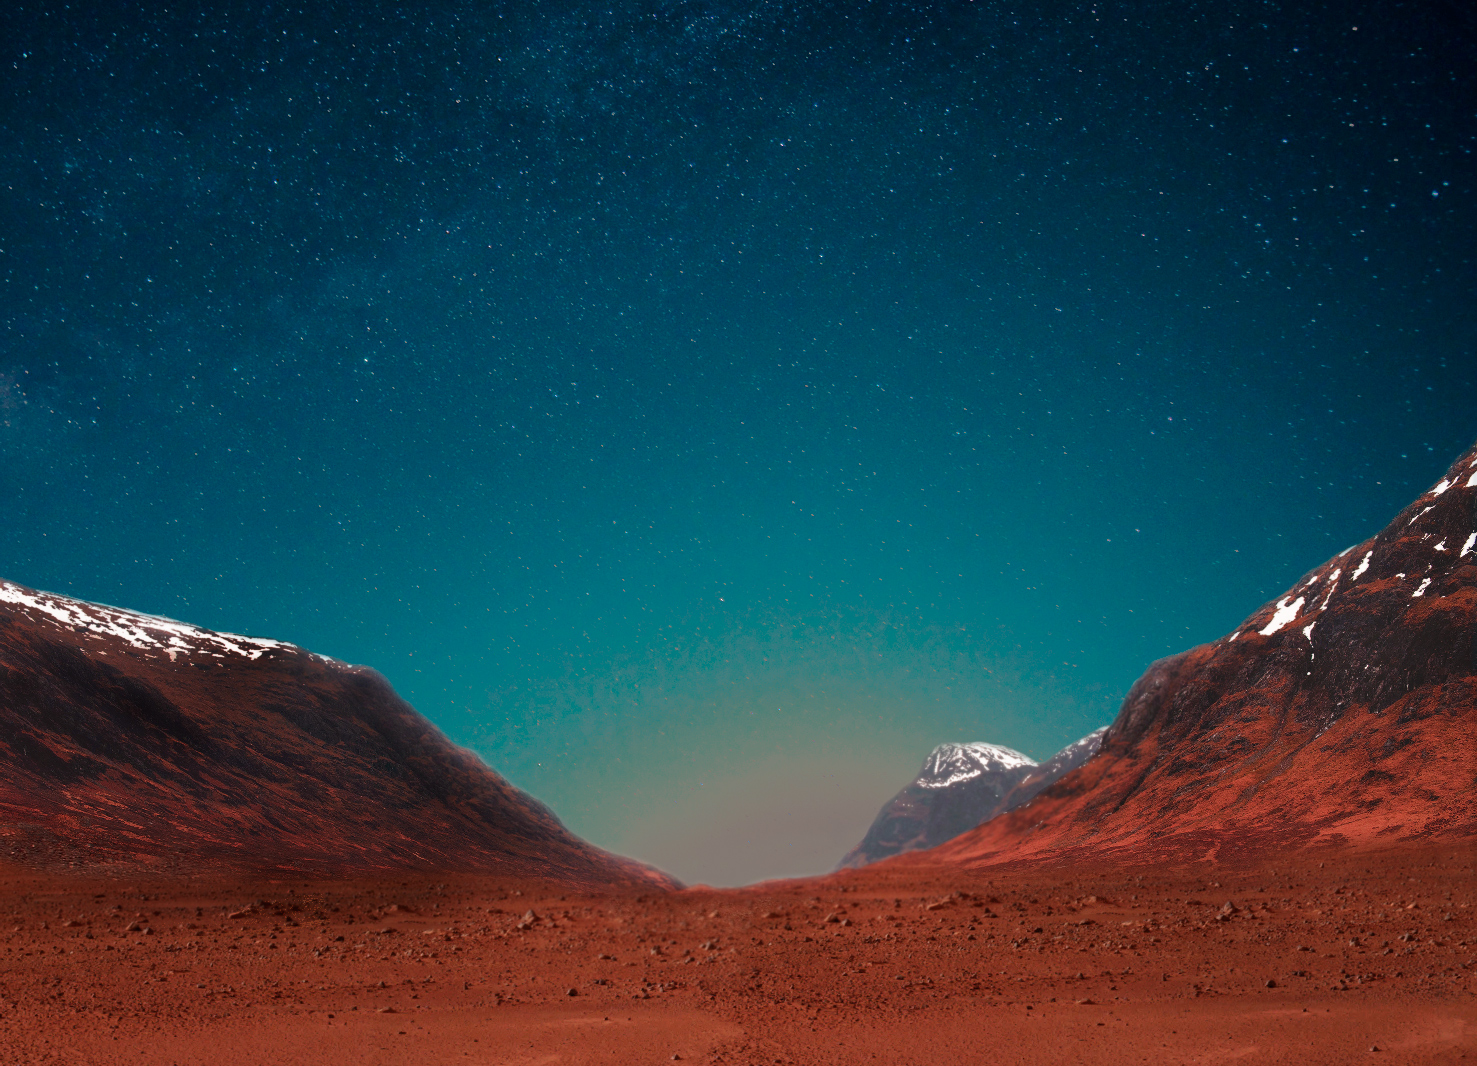
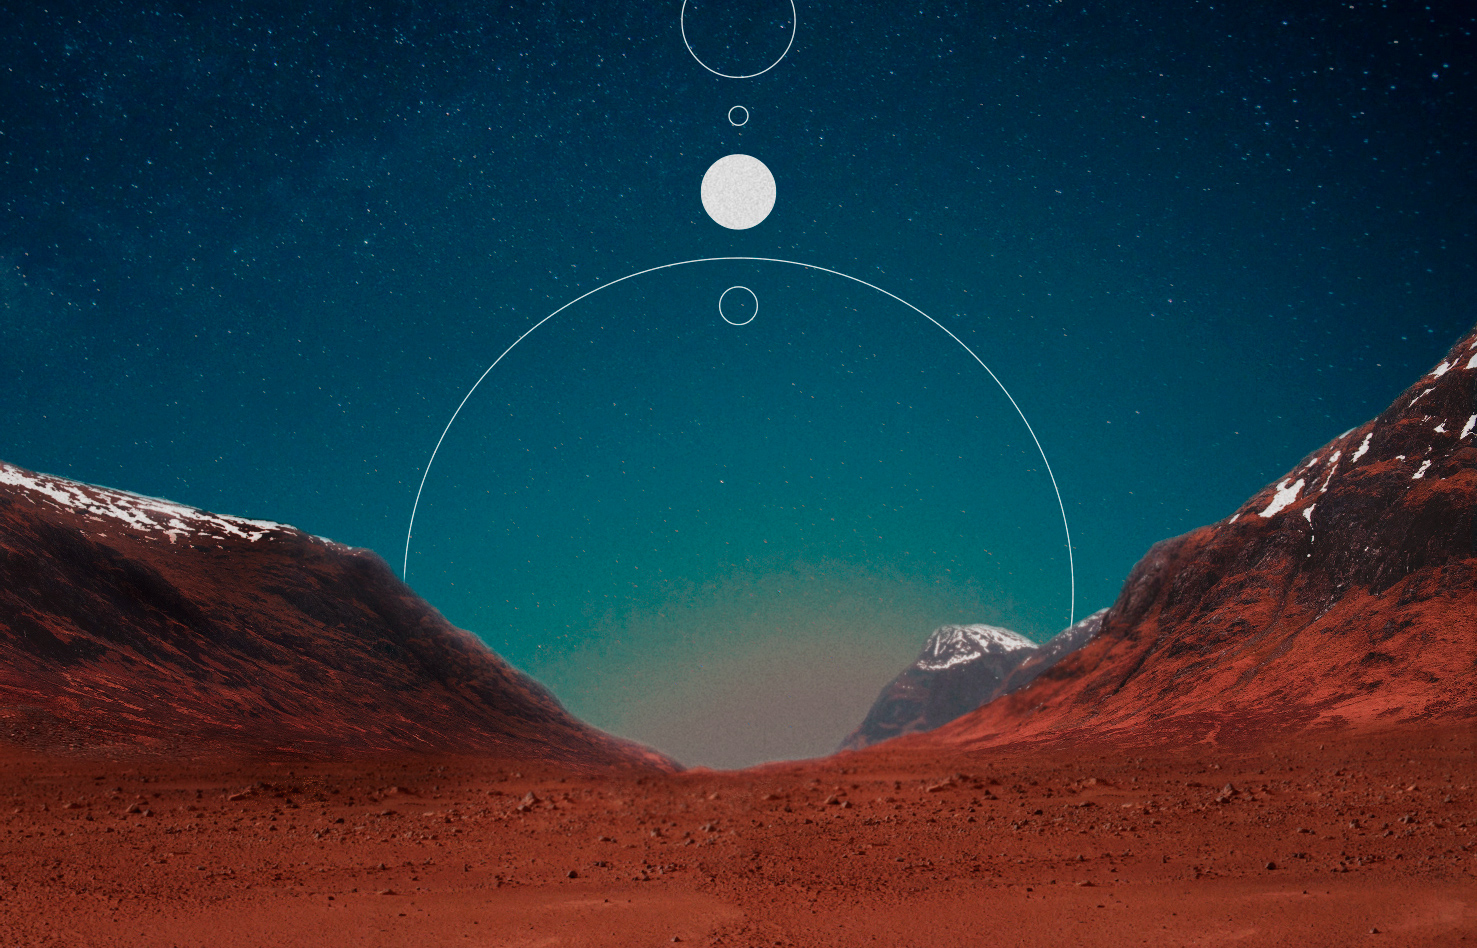
fix img, preloading, optimized home

diff --git a/js/index.js b/js/index.js
@@ -1,7 +1,10 @@
 $('.fix').hide()
 $('.best-work').hide();
 
-$(document).ready(function () {
+$(document).ready(function () {  
+    $(window).on('load', function () {
+        $('#preloader').fadeIn(1).delay(250).fadeOut('slow',function(){$(this).remove();});
+    });
     AOS.init({
         duration: 1000,
     });
@@ -9,10 +12,8 @@ $(document).ready(function () {
     var viewPortSize =  viewport / 4.3;
     var source = $("#entry-template").html();
     var source2 = $("#entry2-template").html();
-    var source3 = $("#entry3-template").html();
     var template = Handlebars.compile(source);
     var template2 = Handlebars.compile(source2);
-    var template3 = Handlebars.compile(source3);
     var root = "http://www.ginofiore.eu/database/progetti.json"
     
     //DATA JSON
@@ -29,13 +30,8 @@ $(document).ready(function () {
             var context = dati[key];
             var html = template2(context);
             $('#data-line').append(html);
+            $('#data-preloading').append('<img style="widht: 1; height: 0;" src="' + context.img + '">');
         });
-        
-        $.each(dati, function (key, value) {
-            var context = dati[key];
-            var html = template3(context);
-            $('#data-preloading').append(html);
-        }); 
     });  
     
     //STYLE JS

diff --git a/index.html b/index.html
@@ -21,6 +21,7 @@
     <link rel="icon" type="image/png" href="css/icon/nik-ico.png" /> </head>
 
 <body>
+    <div id="preloader"><div class="gif"></div></div>
     <!-- PRELOADING IMG -->
     <div id='data-preloading' style="height: 0; width: 0;"></div>
     
@@ -130,7 +131,6 @@
         <square class="squarecont2">
             <div class="square2 squareRot"> </div>
         </square>
-        <div class="sfondo" style="margin: 0; background-color: black; opacity: 0.15; z-index: -2"></div>
     </div>
     
     
@@ -150,14 +150,6 @@
              </div>
         </div>
     </script>
-    
-        <!-- preloading -->
-    <script id="entry3-template" type="text/x-handlebars-template">
-        <div class="entry" style="margin: 0; height: 100vh; width: 100%;">
-            <div class="sfondo" style="margin: 0; background-image: url('{{img}}');"></div>
-        </div>
-    </script>
-    
     
     <!-- LIBRARY JS -->
     <script src="https://code.jquery.com/jquery-3.2.1.min.js" integrity="sha256-hwg4gsxgFZhOsEEamdOYGBf13FyQuiTwlAQgxVSNgt4=" crossorigin="anonymous"></script>

diff --git a/css/mystyle.css b/css/mystyle.css
@@ -13,6 +13,24 @@ body {
     transition-duration: 1s;
 }
 
+#preloader {
+    position: fixed;
+    left: 0;
+    top: 0;
+    z-index: 999;
+    width: 100%;
+    height: 100vh;
+    overflow: visible;
+    background: #080808
+}
+.gif {
+    margin: auto;
+    width: 25vw;
+    height: 100%;
+    background: url("img/preloader.gif") no-repeat center center;
+    background-size: contain;
+}
+
 /*
 
 TESTI
@@ -50,7 +68,6 @@ a:hover {
     color: black;
     text-decoration: underline;
 }
-
 
 /*
 
@@ -719,10 +736,14 @@ MEDIA QUERY
         height: 35vw;
         opacity: 0.03;
     }
-}
+    .gif {
+        width: 35vw;
+    }
 
 @media screen and (max-width: 768px) {
-    
+    .gif {
+        width: 45vw;
+    }
     .square2 {
         width: 45vw;
         height: 45vw;
@@ -781,6 +802,9 @@ MEDIA QUERY
     a {
         font-size: 8pt;
         text-decoration: underline;
+    }
+    .gif {
+        width: 80vw;
     }
     .square2 {
         width: 80vw;

diff --git a/js/schedaprogetto.js b/js/schedaprogetto.js
@@ -1,8 +1,4 @@
 $('html').removeClass();
-$('html').css({
-    "-webkit-box-sizing": "border-box",
-    "box-sizing": "border-box"
-})
 
 $(document).ready(function () {
     $('.up').css({
@@ -12,19 +8,23 @@ $(document).ready(function () {
     AOS.init({
         duration: 1000,
     });
-    
+
     //DATA JSON
     var source = $("#entry-template").html();
     var template = Handlebars.compile(source);
     var id = window.location.search,
         id = id.replace('?id=', 'proj/');
     var root = "http://www.ginofiore.eu/database/" + id + ".json"
+    
     $.getJSON(root, function (data) {
         $.each(data, function (key, value) {
             var context = data[key];
             console.log(data)
             var html = template(context);
             $('#data-list').append(html);
+            if (context.video == ""){
+                $("#my-video").removeAttr("controls")
+            };
         });
     
     });
